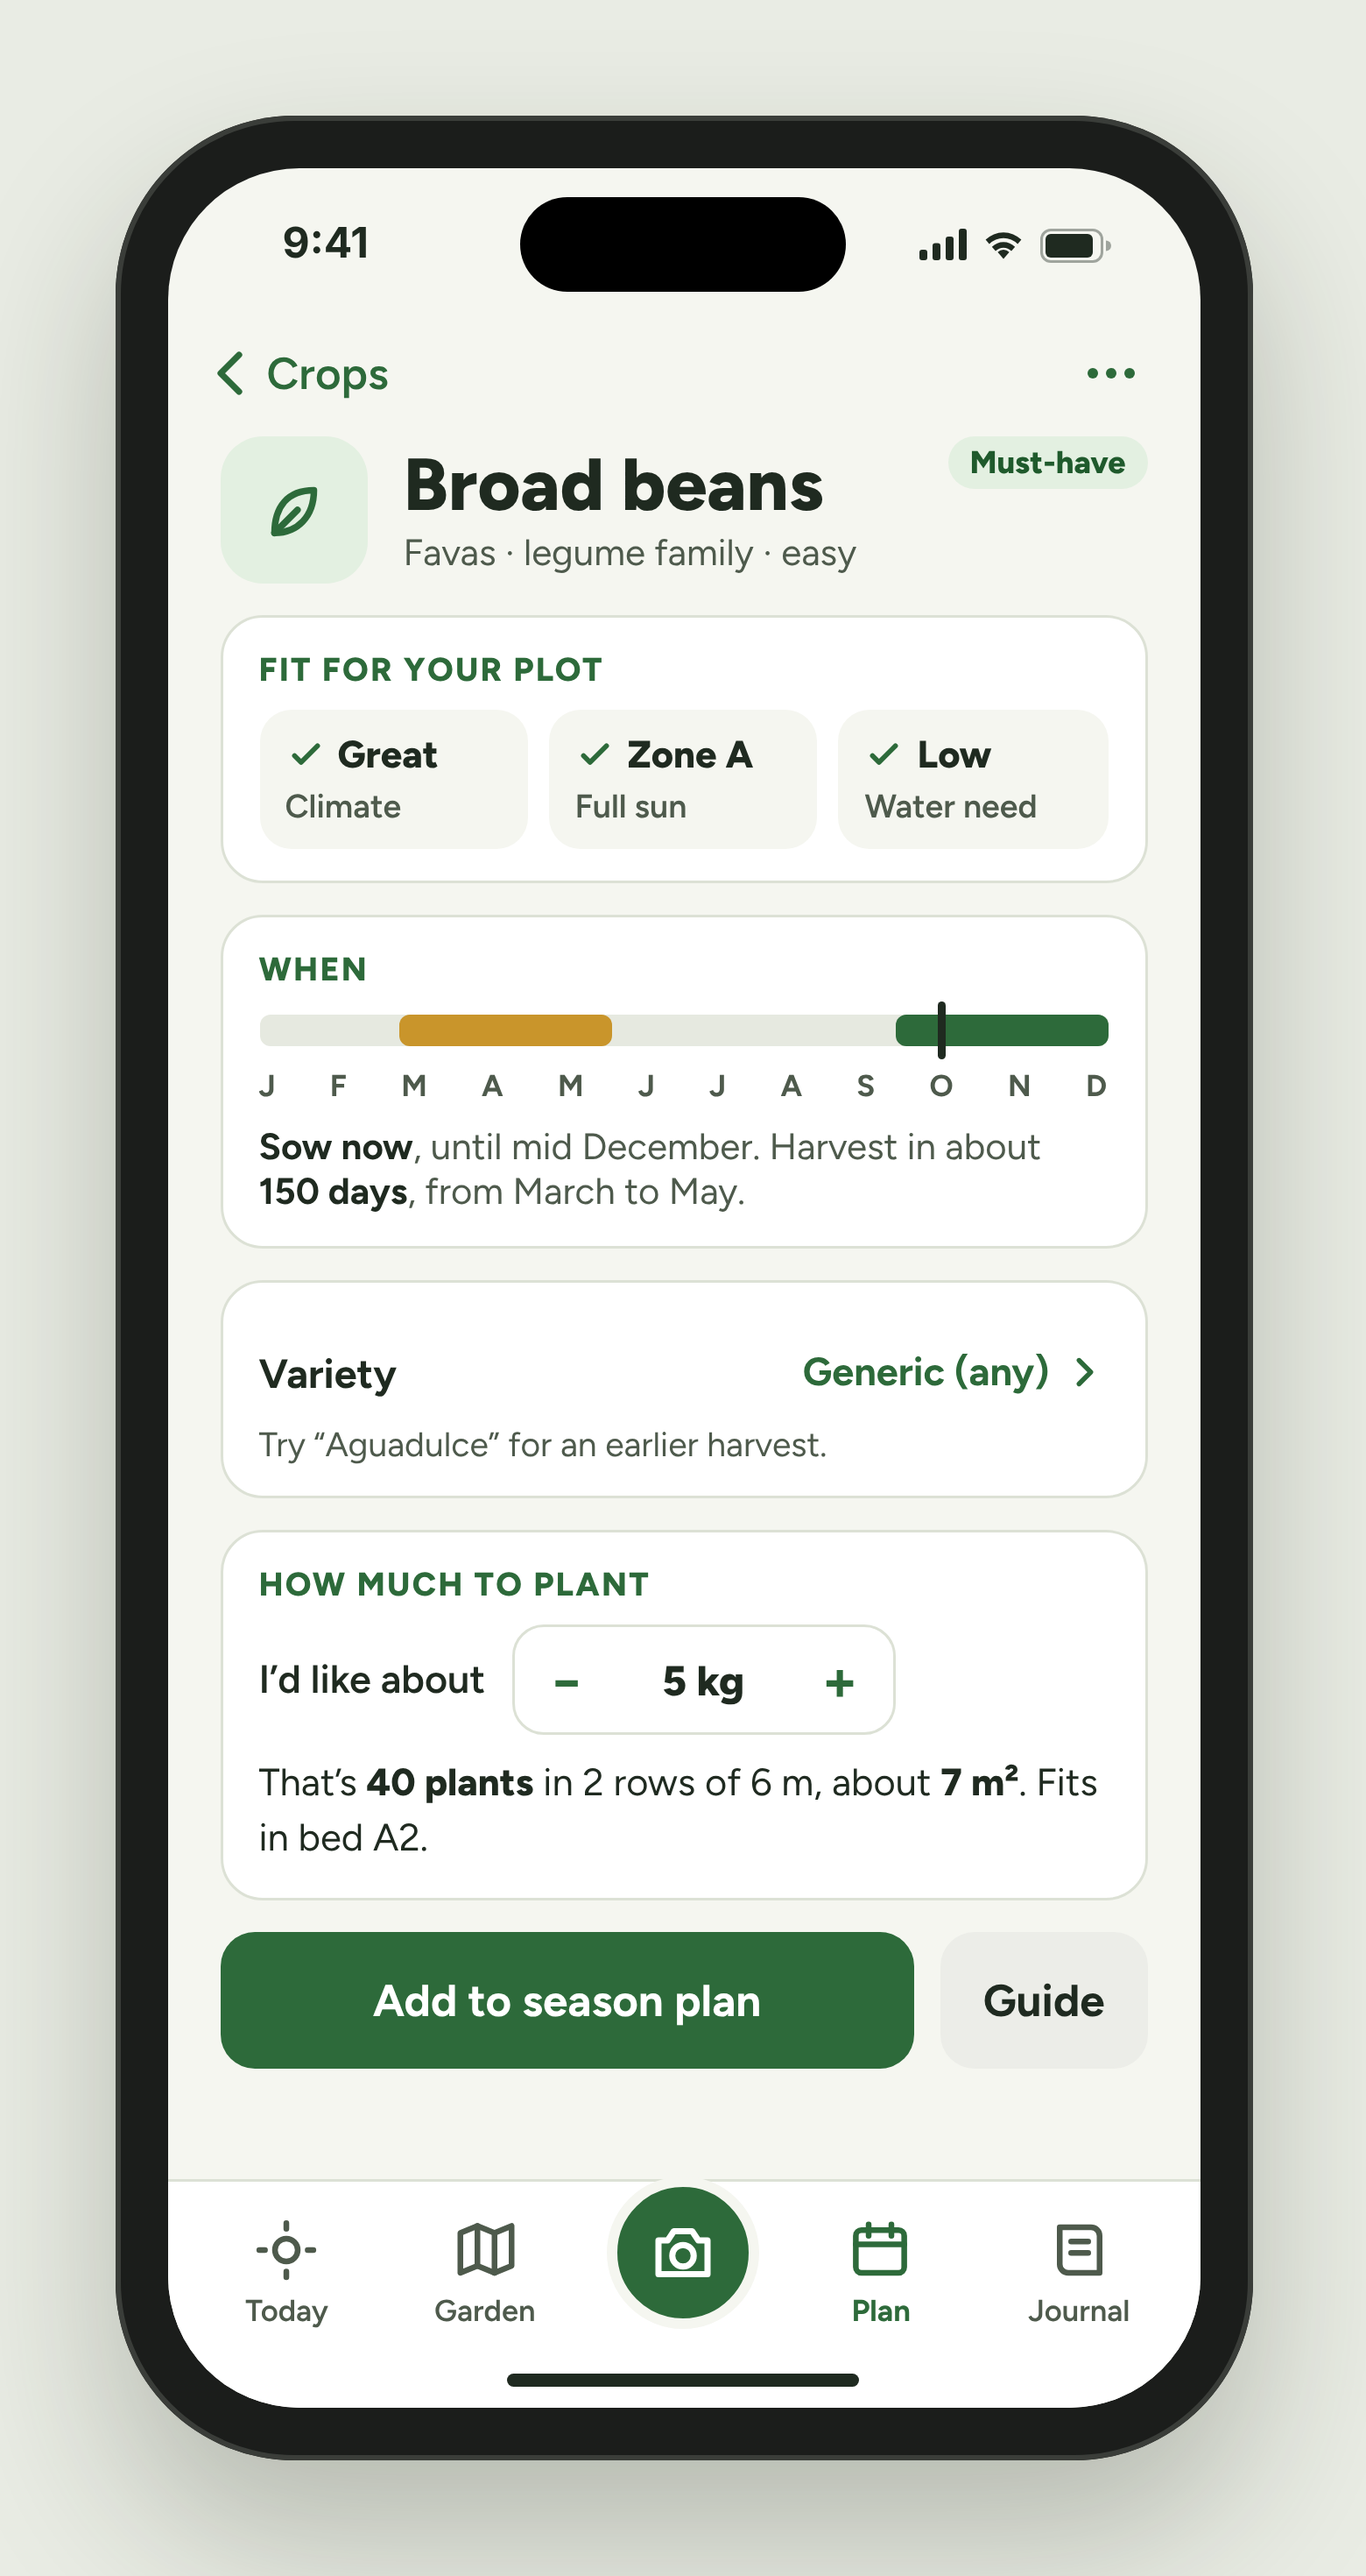
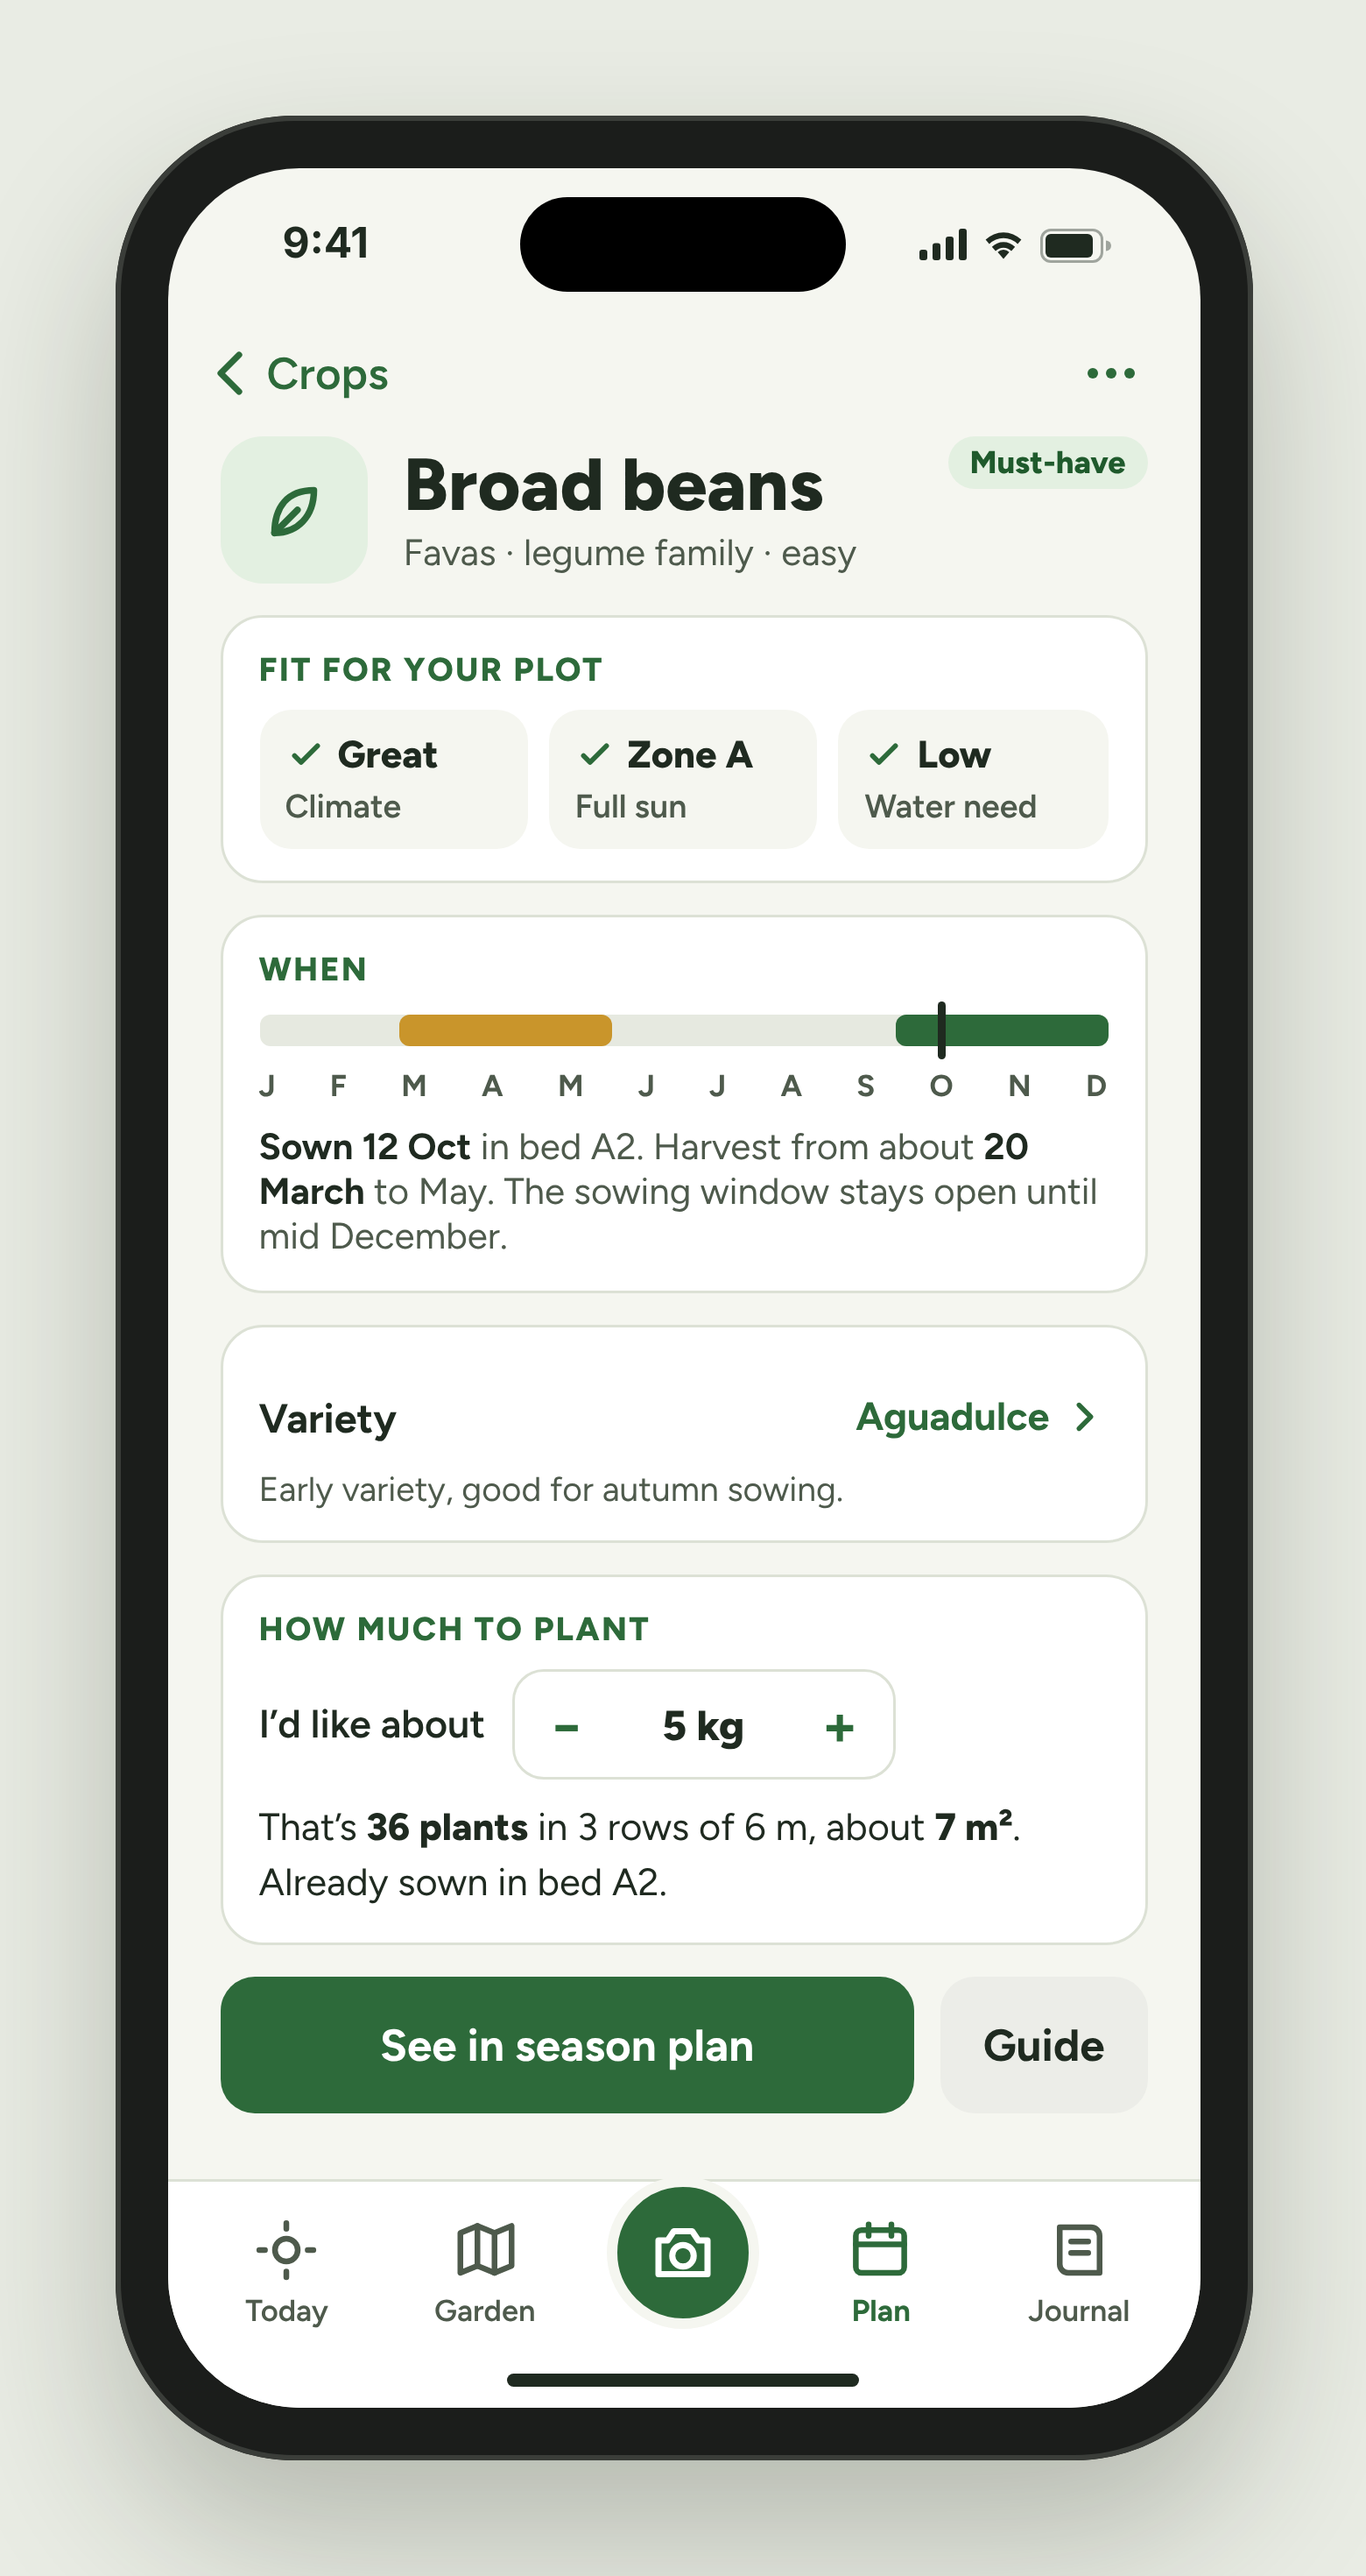
Design E5 crop detail: broad beans as sown (Aguadulce, 36 plants, bed A2), See in season plan
Claude-Session: https://claude.ai/code/session_015NynAjU4naPZwzmeuGazot

Changed region(s): [[0.1538, 0.4333, 0.8, 0.8357], [0.7077, 0.7738, 0.8, 0.8048], [0.7692, 0.681, 0.8, 0.7119]]

diff --git a/design/source/E5-crop-detail.html b/design/source/E5-crop-detail.html
@@ -81,13 +81,13 @@
       <span class="label">When</span>
       <div class="win"><div class="seg-har"></div><div class="seg-sow"></div><div class="now"></div></div>
       <div class="months"><span>J</span><span>F</span><span>M</span><span>A</span><span>M</span><span>J</span><span>J</span><span>A</span><span>S</span><span>O</span><span>N</span><span>D</span></div>
-      <div class="note"><b>Sow now</b>, until mid December. Harvest in about <b>150 days</b>, from March to May.</div>
+      <div class="note"><b>Sown 12 Oct</b> in bed A2. Harvest from about <b>20 March</b> to May. The sowing window stays open until mid December.</div>
     </div>
 
     <div class="card" style="gap: 4px">
       <div class="rowlink"><span style="font-size: 15.5px; font-weight: 700">Variety</span>
-        <span class="v">Generic (any)<svg width="18" height="18" viewBox="0 0 24 24" fill="none" stroke="#2D6A3A" stroke-width="2.4" stroke-linecap="round" stroke-linejoin="round"><path d="M9 6l6 6-6 6"/></svg></span></div>
-      <div style="font-size: 13px; color: var(--muted); margin-top: -6px">Try “Aguadulce” for an earlier harvest.</div>
+        <span class="v">Aguadulce<svg width="18" height="18" viewBox="0 0 24 24" fill="none" stroke="#2D6A3A" stroke-width="2.4" stroke-linecap="round" stroke-linejoin="round"><path d="M9 6l6 6-6 6"/></svg></span></div>
+      <div style="font-size: 13px; color: var(--muted); margin-top: -6px">Early variety, good for autumn sowing.</div>
     </div>
 
     <div class="card">
@@ -96,11 +96,11 @@
         <span style="font-size: 15px; font-weight: 600">I’d like about</span>
         <div class="step"><span>−</span><b>5 kg</b><span>+</span></div>
       </div>
-      <div class="result">That’s <b>40 plants</b> in 2 rows of 6 m, about <b>7 m²</b>. Fits in bed A2.</div>
+      <div class="result">That’s <b>36 plants</b> in 3 rows of 6 m, about <b>7 m²</b>. Already sown in bed A2.</div>
     </div>
 
     <div class="btnrow">
-      <div class="btn primary" style="flex: 1">Add to season plan</div>
+      <div class="btn primary" style="flex: 1">See in season plan</div>
       <div class="btn secondary" style="flex: none; padding: 0 16px">Guide</div>
     </div>
   </div>
